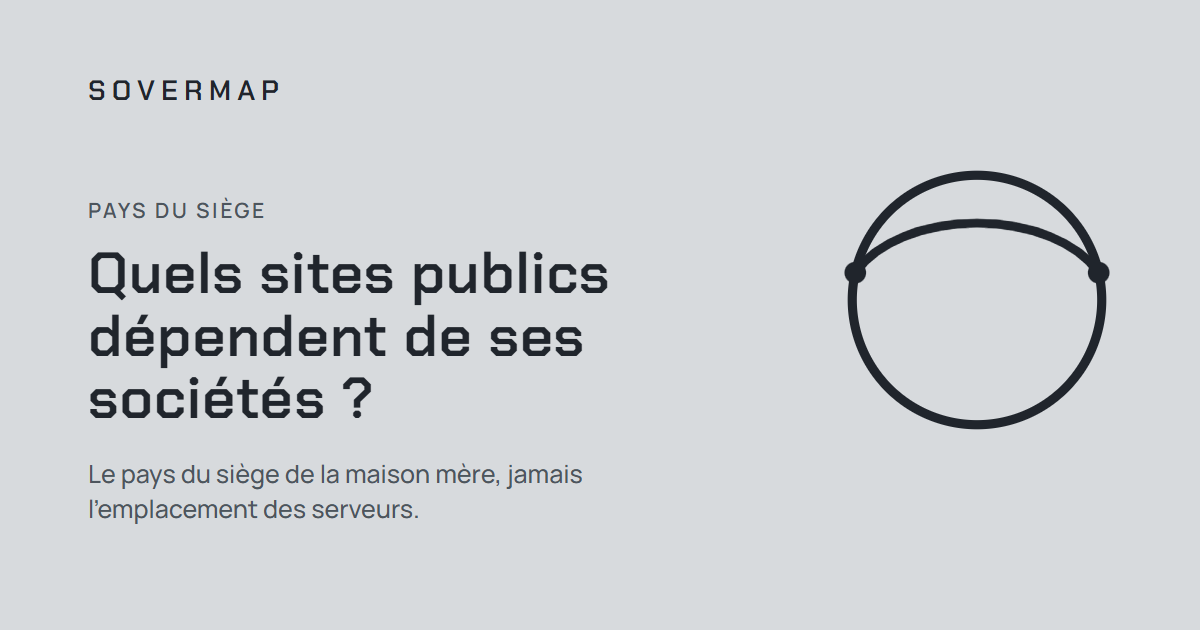
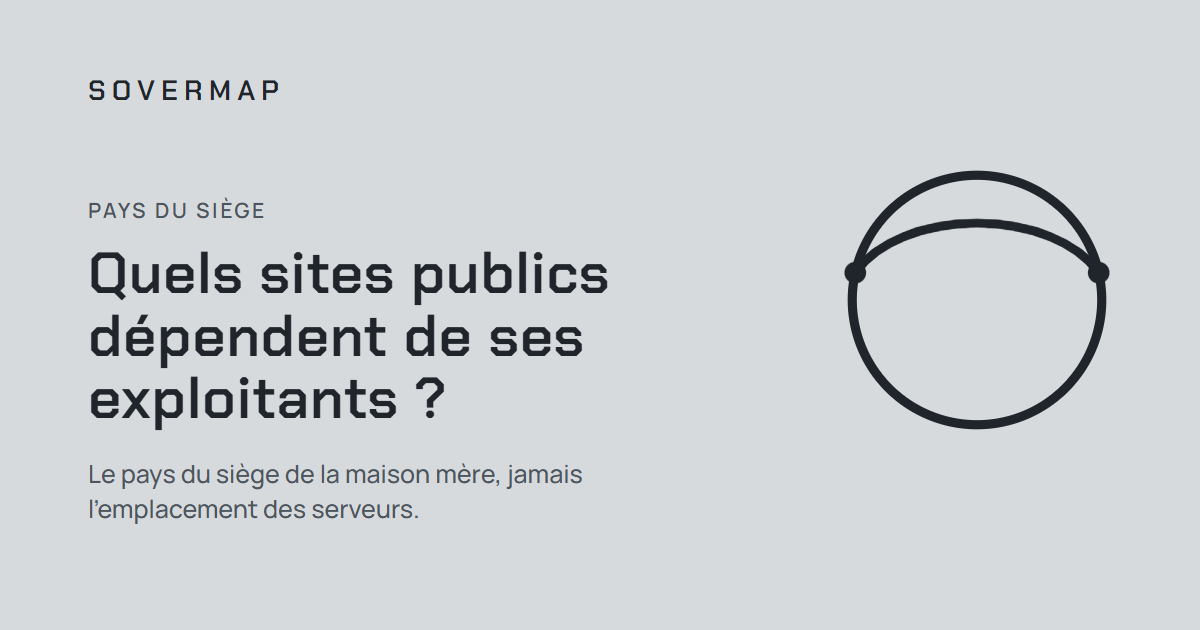
fix(site): from the second review of PR 22: a key missing from the day before's part is unavailable; the share images redrawn
- fiche() takes the state's day: a key missing from a part of another
  day (the day before's, read when today's could not be) is
  « indisponible », never « absent », which a page would keep as « not
  found » (a domain added today); a test reads it from the day before.
- The share images are drawn again from the dictionary: « Exploitant —
  Quels sites publics sert-il ? », and the country's « ses exploitants ».
- The remaining « société » of the text pages where an operator may be
  a public body; the breadcrumb of the list and of each operator's page
  says « Sociétés et organismes » (the navigation keeps « Sociétés », as
  DESIGN.md has it).
- The search index's fallback answers 503 without cache when a
  company's list does not pass its checks.
- Two minor limits written in the plan (§ 11).

Changed region(s): [[0.0617, 0.6032, 0.37, 0.6937]]

diff --git a/lib/i18n/fr-textes.ts b/lib/i18n/fr-textes.ts
@@ -62,7 +62,7 @@ export const aPropos: PageDeTexte = soignee({
         },
         {
           paragraphe: [
-            "Pour chacun, il donne la société qui le sert et le pays du siège de sa maison mère, couche par couche, avec la source et la date de chaque couche.",
+            "Pour chacun, il donne la société ou l’organisme qui le sert et le pays du siège de sa maison mère, couche par couche, avec la source et la date de chaque couche.",
           ],
         },
         {
@@ -190,7 +190,7 @@ export const accessibilite: PageDeTexte = soignee({
         {
           liste: [
             ["Le globe en trois dimensions de l’Atlas : le tableau des pays, sous le globe, donne les mêmes chiffres."],
-            ["La constellation d’un ministère : la liste de ses domaines, par société, sur la même page."],
+            ["La constellation d’un ministère : la liste de ses domaines, par exploitant, sur la même page."],
           ],
         },
       ],
@@ -234,13 +234,13 @@ export const glossaire: PageDeTexte = soignee({
               { valeur: "AS16276" },
               ". Chaque adresse appartient au réseau qui l’annonce.",
             ],
-            ["Société exploitante : la société, ou l’organisme, qui exploite ce réseau."],
+            ["Exploitant : la société, ou l’organisme public, qui exploite ce réseau."],
             ["Maison mère ultime : la société qui contrôle la société exploitante, en haut de la chaîne de propriété."],
             ["Pays du siège : le pays où la maison mère a son siège. Ce n’est jamais l’emplacement des serveurs."],
             [
               "CDN (réseau de diffusion) : un réseau placé devant un site, qui le sert aux visiteurs depuis ses propres serveurs.",
             ],
-            ["Hébergé par : la société dont le réseau sert le site quand aucun CDN ne s’interpose."],
+            ["Hébergé par : l’exploitant dont le réseau sert le site quand aucun CDN ne s’interpose."],
             [
               "Diffusé par : la société dont le CDN sert le site aux visiteurs. Derrière un CDN, l’hébergeur d’origine n’est pas observable depuis l’extérieur.",
             ],
@@ -517,7 +517,7 @@ export const methode: PageDeTexte = soignee({
           liste: [
             ["s’il répond, et ses serveurs de noms ;"],
             [
-              "ses adresses, son réseau, la société qui exploite ce réseau, sa maison mère ultime et le pays du siège de chacune ;",
+              "ses adresses, son réseau, l’exploitant de ce réseau (une société ou un organisme public), sa maison mère ultime et le pays du siège de chacun ;",
             ],
             ["si un réseau de diffusion (CDN) est placé devant le site ;"],
             ["si la société a au moins une offre qualifiée SecNumCloud ;"],
@@ -573,7 +573,7 @@ export const methode: PageDeTexte = soignee({
             ["Ses serveurs de noms."],
             ["Ses adresses, et la chaîne de ses alias."],
             ["Le réseau qui annonce chaque adresse, établi par deux sources indépendantes."],
-            ["La société qui exploite ce réseau."],
+            ["L’exploitant de ce réseau, société ou organisme public."],
             ["Sa maison mère ultime (GLEIF, puis un registre officiel ou le rapport annuel du groupe)."],
             ["Le pays du siège de chacune."],
             [

diff --git a/lib/donnees/fiches.ts b/lib/donnees/fiches.ts
@@ -21,20 +21,25 @@ export function cheminSeau(dossier: Dossier, cle: string, partie = 0): string {
 
 /**
  * The record of a key: « absent » when the day's state does not publish it (a page answers « not found »), « indisponible »
- * when a part cannot be read or does not match its schema (logged; a page is never cached with it).
+ * when a part cannot be read or does not match its schema (logged; a page is never cached with it). `jour`, the day of
+ * the state: a key missing from a part of another day (the day before's, read when today's could not be) is
+ * « indisponible », never « absent » (a domain added today; the review of PR 22).
  */
 export async function fiche(
   lire: LireFichier,
   dossier: Dossier,
   cle: string,
+  jour: string | null = null,
   journal: (ligne: string) => void = (ligne) => console.warn(ligne),
 ): Promise<Lecture<Record<string, unknown>>> {
   const champ = dossier === "noms" ? "nom" : "domaine";
   let parties = 1;
+  let dUnAutreJour = false;
   for (let partie = 0; partie < parties; partie += 1) {
     const chemin = cheminSeau(dossier, cle, partie);
     const lu = await lire(chemin);
     if (lu.statut !== "ok") return lu;
+    if (jour !== null && lu.date !== jour) dUnAutreJour = true;
     const schema = schemaDe(chemin);
     const erreurs = schema === null ? [{ chemin: "$", attendu: "un schéma" }] : valider(lu.donnees, schema);
     if (erreurs.length > 0) {
@@ -47,5 +52,5 @@ export async function fiche(
     const trouvee = liste.find((e) => e[champ] === cle);
     if (trouvee !== undefined) return { statut: "ok", donnees: trouvee, date: lu.date };
   }
-  return { statut: "absent" };
+  return dUnAutreJour ? { statut: "indisponible" } : { statut: "absent" };
 }

diff --git a/tests/donnees-fiches.test.ts b/tests/donnees-fiches.test.ts
@@ -100,6 +100,17 @@ describe("the records for the pages (part D)", () => {
     });
     // Not published: « absent » (a page answers « not found »).
     expect(await fiche(lire, "noms", "www.inconnu.example")).toEqual({ statut: "absent" });
+    expect(await fiche(lire, "noms", "www.inconnu.example", "2026-11-22")).toEqual({ statut: "absent" });
+    // Missing from the day before's part, read when today's could not be (a name added today): never « absent », which a
+    // page would keep as « not found » (the review of PR 22).
+    const veille = lecteur(fichiers, "2026-11-21").lire;
+    const ajoutee = memeSeau(3).find((n) => n !== "www.d0.example" && n !== "www.d1.example") ?? "";
+    expect(await fiche(lire, "noms", ajoutee, "2026-11-22")).toEqual({ statut: "absent" });
+    expect(await fiche(veille, "noms", ajoutee, "2026-11-22")).toEqual({ statut: "indisponible" });
+    expect(await fiche(veille, "noms", "www.d1.example", "2026-11-22")).toMatchObject({
+      statut: "ok",
+      date: "2026-11-21",
+    });
   });
 
   it("looks for a key in the numbered parts of its bucket, and stops where it is found", async () => {
@@ -124,7 +135,7 @@ describe("the records for the pages (part D)", () => {
     const chemin = cheminSeau("noms", "www.d0.example");
     const journal: string[] = [];
     const casse = new Map([[chemin, JSON.stringify({ noms: [{ nom: "www.d0.example" }] })]]);
-    expect(await fiche(lecteur(casse).lire, "noms", "www.d0.example", (l) => journal.push(l))).toEqual({
+    expect(await fiche(lecteur(casse).lire, "noms", "www.d0.example", null, (l) => journal.push(l))).toEqual({
       statut: "indisponible",
     });
     expect(journal).toHaveLength(1);

diff --git a/app/radiographie/[domaine]/page.tsx b/app/radiographie/[domaine]/page.tsx
@@ -68,13 +68,13 @@ export default async function RadiographiePage({ params, searchParams }: Props) 
   const { mode } = await searchParams;
   const vue: Mode = mode === "expert" ? "expert" : "simple";
   const lire = (chemin: string) => lecteur.fichier(chemin);
-  const lu = etat.statut === "ok" ? await fiche(lire, "domaines", domaine) : etat;
+  const lu = etat.statut === "ok" ? await fiche(lire, "domaines", domaine, etat.donnees.date) : etat;
   if (lu.statut === "absent" || lu.statut === "porte fermée") notFound();
   if (lu.statut !== "ok" || etat.statut !== "ok") indisponible();
   // The records were checked against their schemas (lib/donnees/fiches.ts); the indexes are checked here.
   const enregistrement = lu.donnees as unknown as EnregistrementDomaine;
   const [web, societes, as, ministeres] = await Promise.all([
-    fiche(lire, "noms", enregistrement.nomWeb),
+    fiche(lire, "noms", enregistrement.nomWeb, etat.donnees.date),
     lire("index/exploitants.json"),
     lire("index/as.json"),
     lire("index/ministeres.json"),

diff --git a/app/recherche/index.json/route.ts b/app/recherche/index.json/route.ts
@@ -50,11 +50,11 @@ export async function GET(): Promise<Response> {
       [...societes.keys()].map((cle) => lecteur.fichier(`index/exploitants/${cle}.json`)),
     );
     if (listes.some((lu) => lu.statut !== "ok" && lu.statut !== "absent")) return indisponibleSansCache();
-    const tous = new Set(
-      listes.flatMap((lu, i) =>
-        lu.statut === "ok" ? (lireDomainesSociete(lu.donnees, [...societes.keys()][i] ?? "") ?? []) : [],
-      ),
+    const parSociete = listes.map((lu, i) =>
+      lu.statut === "ok" ? lireDomainesSociete(lu.donnees, [...societes.keys()][i] ?? "") : [],
     );
+    if (parSociete.some((l) => l === null)) return indisponibleSansCache();
+    const tous = new Set(parSociete.flatMap((l) => l ?? []));
     for (const d of desMinisteres) tous.add(d);
     domaines = [...tous].sort().map((d) => [d, d.endsWith(".gouv.fr") || desMinisteres.has(d) ? 1 : 0]);
   }

diff --git a/app/ministeres/[slug]/page.tsx b/app/ministeres/[slug]/page.tsx
@@ -89,11 +89,11 @@ export default async function MinisterePage({ params }: Props) {
   // stays « non déterminé » (the review of PR 22).
   const luSocietes = await lire("index/exploitants.json");
   const servis = await parLots(m.domaines, async (d): Promise<DomaineServi | null> => {
-    const lu = await fiche(lire, "domaines", d);
+    const lu = await fiche(lire, "domaines", d, etat.donnees.date);
     if (lu.statut === "absent") return servi(d, null);
     if (lu.statut !== "ok") return null;
     const nomWeb = (lu.donnees as unknown as EnregistrementDomaine).nomWeb;
-    const web = await fiche(lire, "noms", nomWeb);
+    const web = await fiche(lire, "noms", nomWeb, etat.donnees.date);
     if (web.statut !== "ok" && web.statut !== "absent") return null;
     return servi(d, web.statut === "ok" ? (web.donnees as unknown as EnregistrementNom) : null);
   });

diff --git a/lib/i18n/fr.ts b/lib/i18n/fr.ts
@@ -335,6 +335,8 @@ export const fr = {
   /** The companies (D.2, R9): who hosts or delivers the measured sites, who owns whom. */
   societes: {
     titre: "Les sociétés et organismes",
+    /** The breadcrumb of the list and of each operator's page (the navigation keeps « Sociétés », DESIGN.md §8). */
+    miette: "Sociétés et organismes",
     description: `Les sociétés et organismes publics qui hébergent ou diffusent les sites publics mesurés par Sovermap${NBSP}: qui possède qui, et le pays du siège de leur maison mère.`,
     chapo:
       "Les sociétés et les organismes publics qui hébergent ou diffusent les sites mesurés, dans l’ordre alphabétique. Un organisme public n’y est jamais appelé société.",

diff --git a/app/societes/page.tsx b/app/societes/page.tsx
@@ -48,7 +48,7 @@ export default async function SocietesPage() {
   const societes = societesTriees(index);
   return (
     <Coque large>
-      <FilAriane miettes={[{ nom: fr.coque.navigation.societes, chemin: "/societes" }]} />
+      <FilAriane miettes={[{ nom: fr.societes.miette, chemin: "/societes" }]} />
       <h1 className="titre-page">{t.titre}</h1>
       <p className="chapo">{t.chapo}</p>
       <p className="releve-note">{t.entete(nombre(societes.length))}</p>

diff --git a/app/societes/[cle]/page.tsx b/app/societes/[cle]/page.tsx
@@ -61,7 +61,7 @@ export default async function SocietePage({ params, searchParams }: Props) {
     <Coque>
       <FilAriane
         miettes={[
-          { nom: fr.coque.navigation.societes, chemin: "/societes" },
+          { nom: fr.societes.miette, chemin: "/societes" },
           { nom: s.nom, chemin: `/societes/${cle}` },
         ]}
       />

diff --git a/specs/001-sovermap/plan.md b/specs/001-sovermap/plan.md
@@ -323,7 +323,7 @@ Sources :
   - HTML brut (compressé) : l'accueil 23 Ko (5), une Radiographie 34 Ko (6), la liste des ministères 25 Ko (5), un ministère 92 Ko (9 ; la Culture, le plus lourd mesuré), une société 136 Ko (11 ; OVH), un pays 14 Ko (3), un jour du journal 13 Ko (3), Qualité 33 Ko (5) ;
   - la charge RSC d'une navigation interne : de 7 à 86 Ko brut ; l'index de recherche : 757 Ko brut (161 compressés).
 - **Décision** : aucune page en ISR (zéro écriture). Les pages de données restent rendues à la demande, et `Vercel-CDN-Cache-Control` (`lib/cache.ts`, porte ouverte seulement) les fait garder par le CDN : une fiche (Radiographie, jour du journal) un jour, puis servie périmée une semaine pendant sa relecture ; une page agrégée une heure, puis un jour. Cela remplace l'ISR d'une heure prévu ci-dessus pour les pages agrégées : même fraîcheur, aucune écriture. L'index de recherche est gardé 6 heures (au lieu d'une) : les données ne changent qu'une fois par jour.
-- **Limites connues du cache** (relecture neuve de la PR n° 22) : une réponse 404 est gardée comme la page qu'elle remplace (un jour pour une fiche : un jour du journal pas encore publié, un domaine nouveau) ; la mention « données en retard » peut donc tarder jusqu'à un jour sur une fiche gardée. Une lecture ratée répond une erreur, jamais gardée. La séparation des réponses HTML et RSC dans le cache du CDN se vérifie sur la préversion (une requête `RSC: 1` sans `_rsc`, puis une requête simple : la seconde doit rester du HTML).
+- **Limites connues du cache** (relecture neuve de la PR n° 22) : une réponse 404 est gardée comme la page qu'elle remplace (un jour pour une fiche : un jour du journal pas encore publié, un domaine nouveau) ; la mention « données en retard » peut donc tarder jusqu'à un jour sur une fiche gardée. Une lecture ratée répond une erreur, jamais gardée. La séparation des réponses HTML et RSC dans le cache du CDN se vérifie sur la préversion (une requête `RSC: 1` sans `_rsc`, puis une requête simple : la seconde doit rester du HTML). Deux limites mineures de la Radiographie restent : deux ministères au nom exactement identique mènent tous deux à la page du second ; et quand une fiche de la veille sert de secours, la couche 4 cite les dates d'IPtoASN et du RIS du jour, non celles de la veille.
 - **À vérifier dans la préversion** : `x-vercel-cache` (MISS, puis HIT), en HTML et en RSC. Si le CDN ne garde pas ces pages (Next.js leur met `Cache-Control: private`), repli : les pages agrégées en ISR d'une heure (≈ 60 000 écritures, sous la cible).
 - **Projection** (hypothèses du § 3 : 130 000 requêtes de visites, soit 5 000 visites de 4 pages, et 100 000 requêtes de robots par mois ; sur Vercel, 30 ms et 35 Ko par rendu, en comptant large) :
   - sans le cache du CDN (chaque requête rendue) : 230 000 invocations (cible ≤ 439 000), 1 h 55 de CPU actif (cible ≤ 1 h 29 : **dépassée**), 7,7 Go de Fast Origin Transfer (cible ≤ 4,49 Go : **dépassée**) ;
